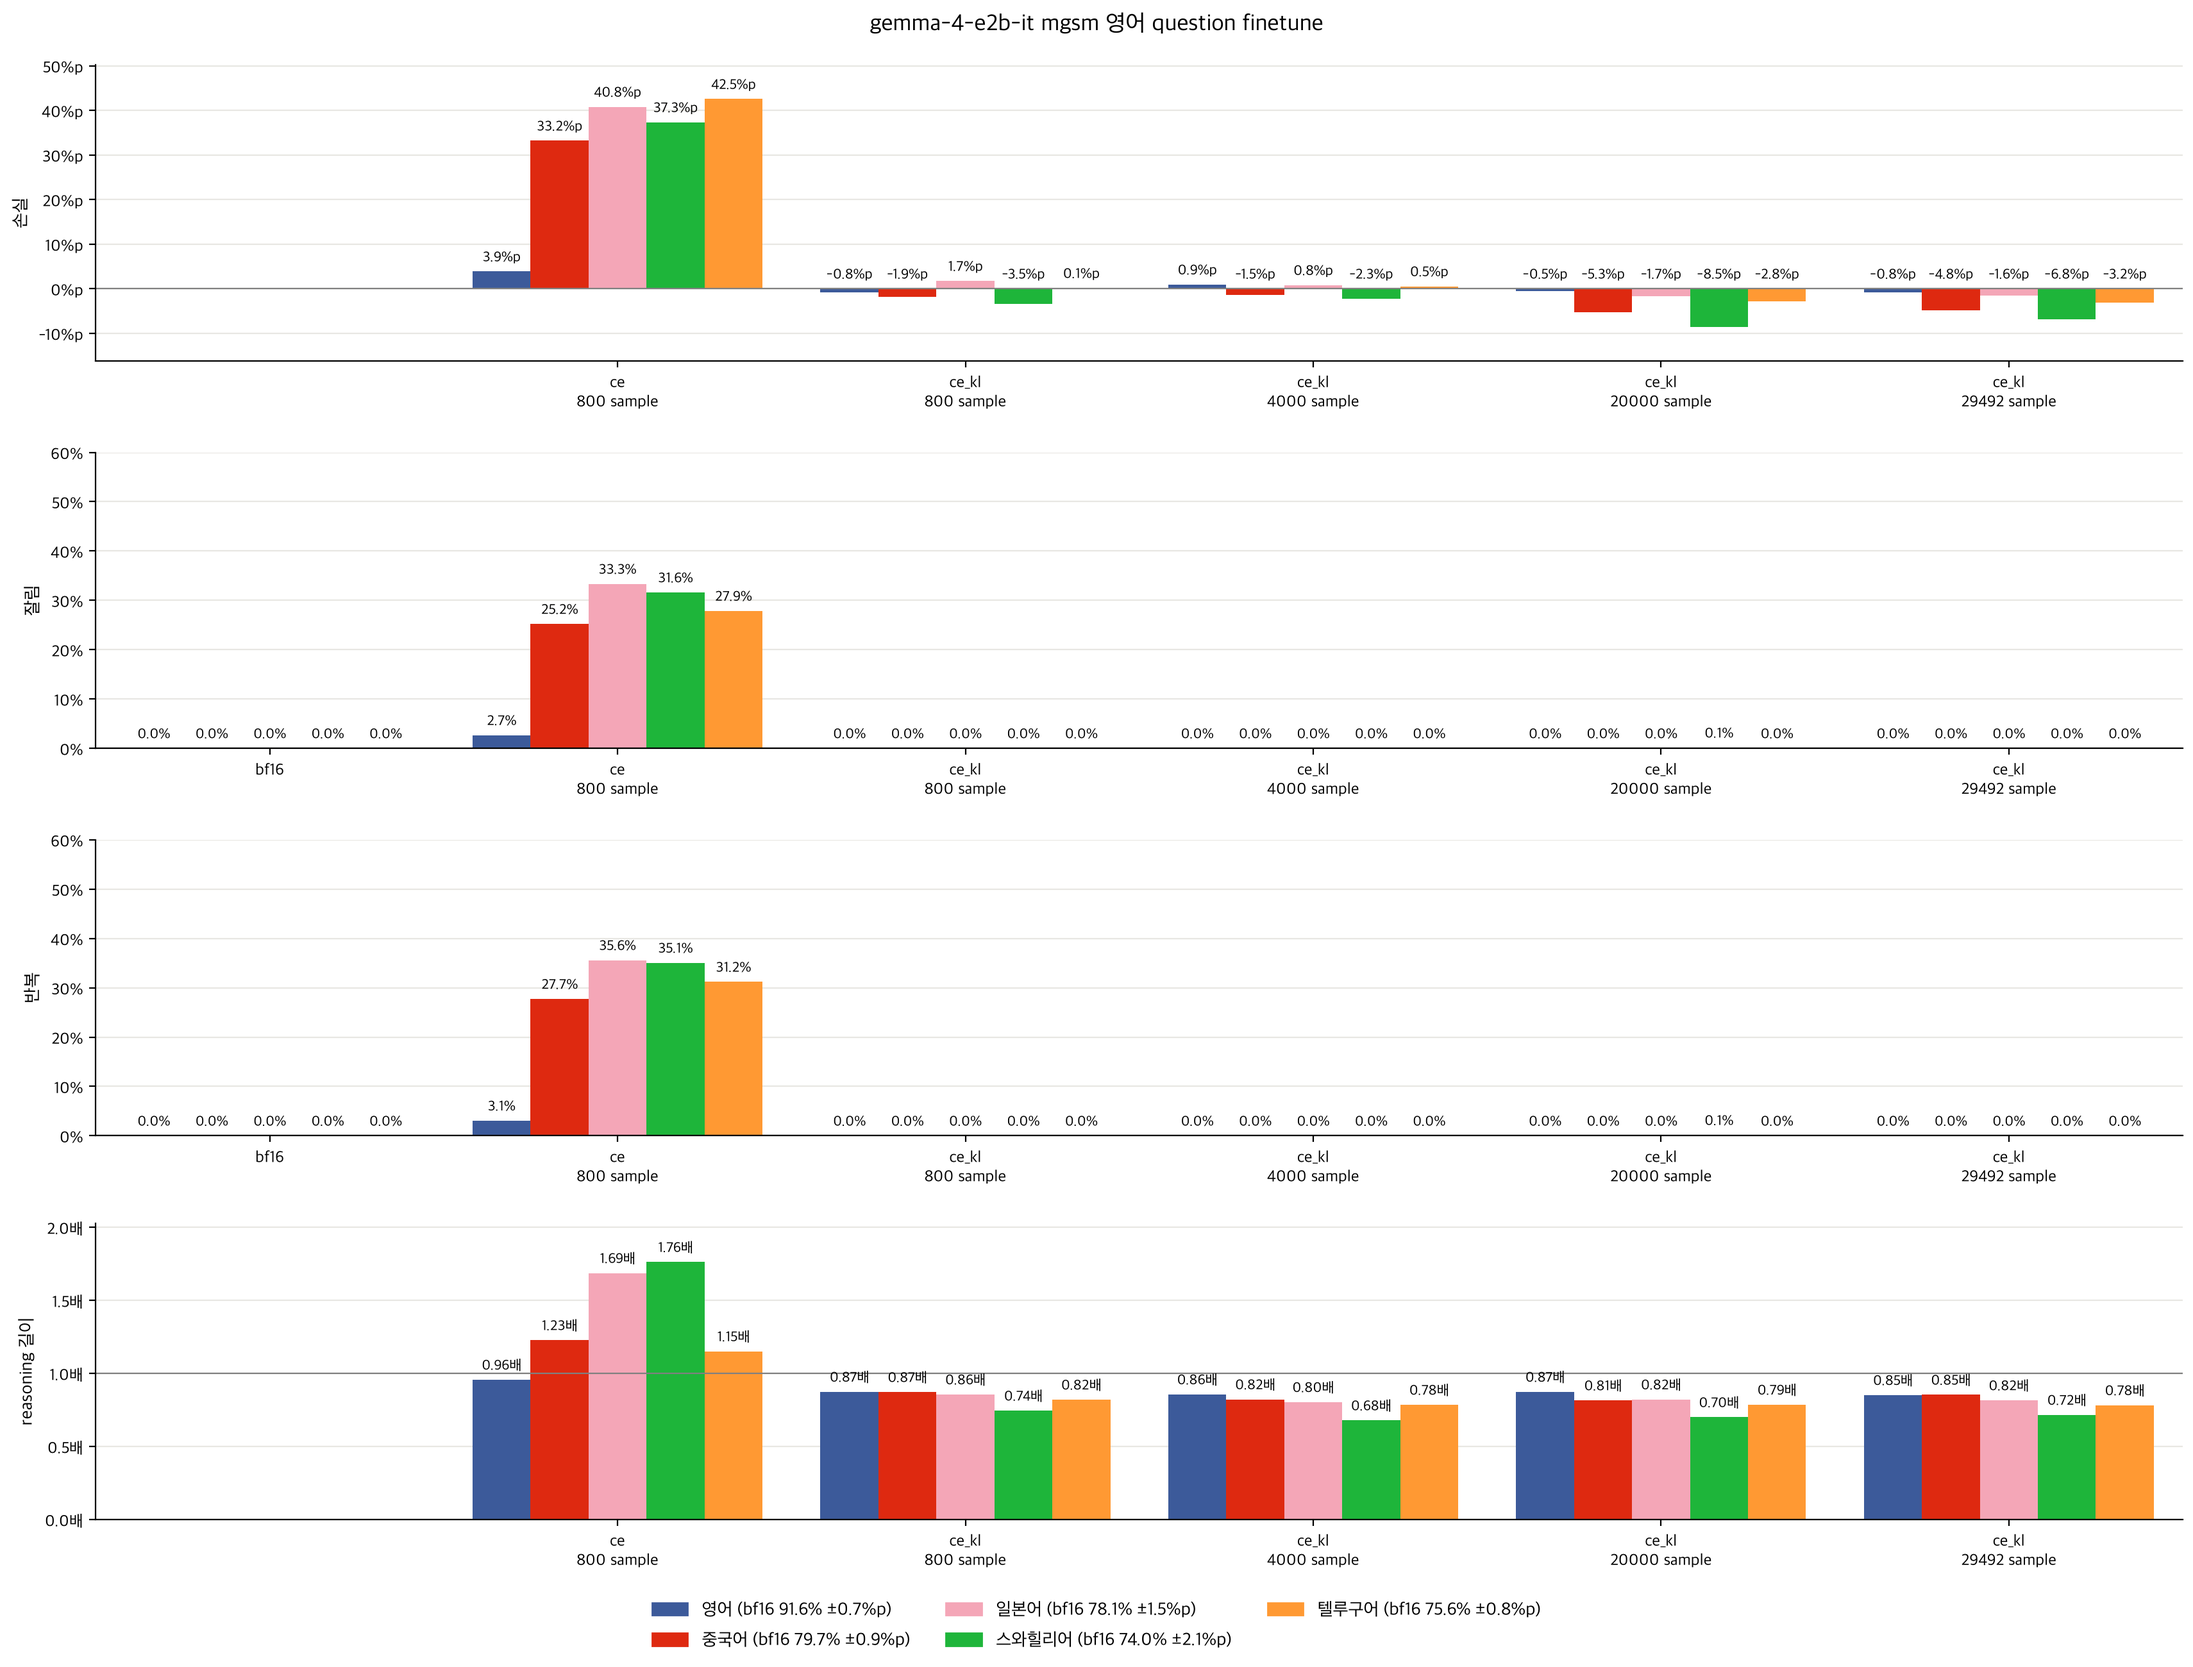
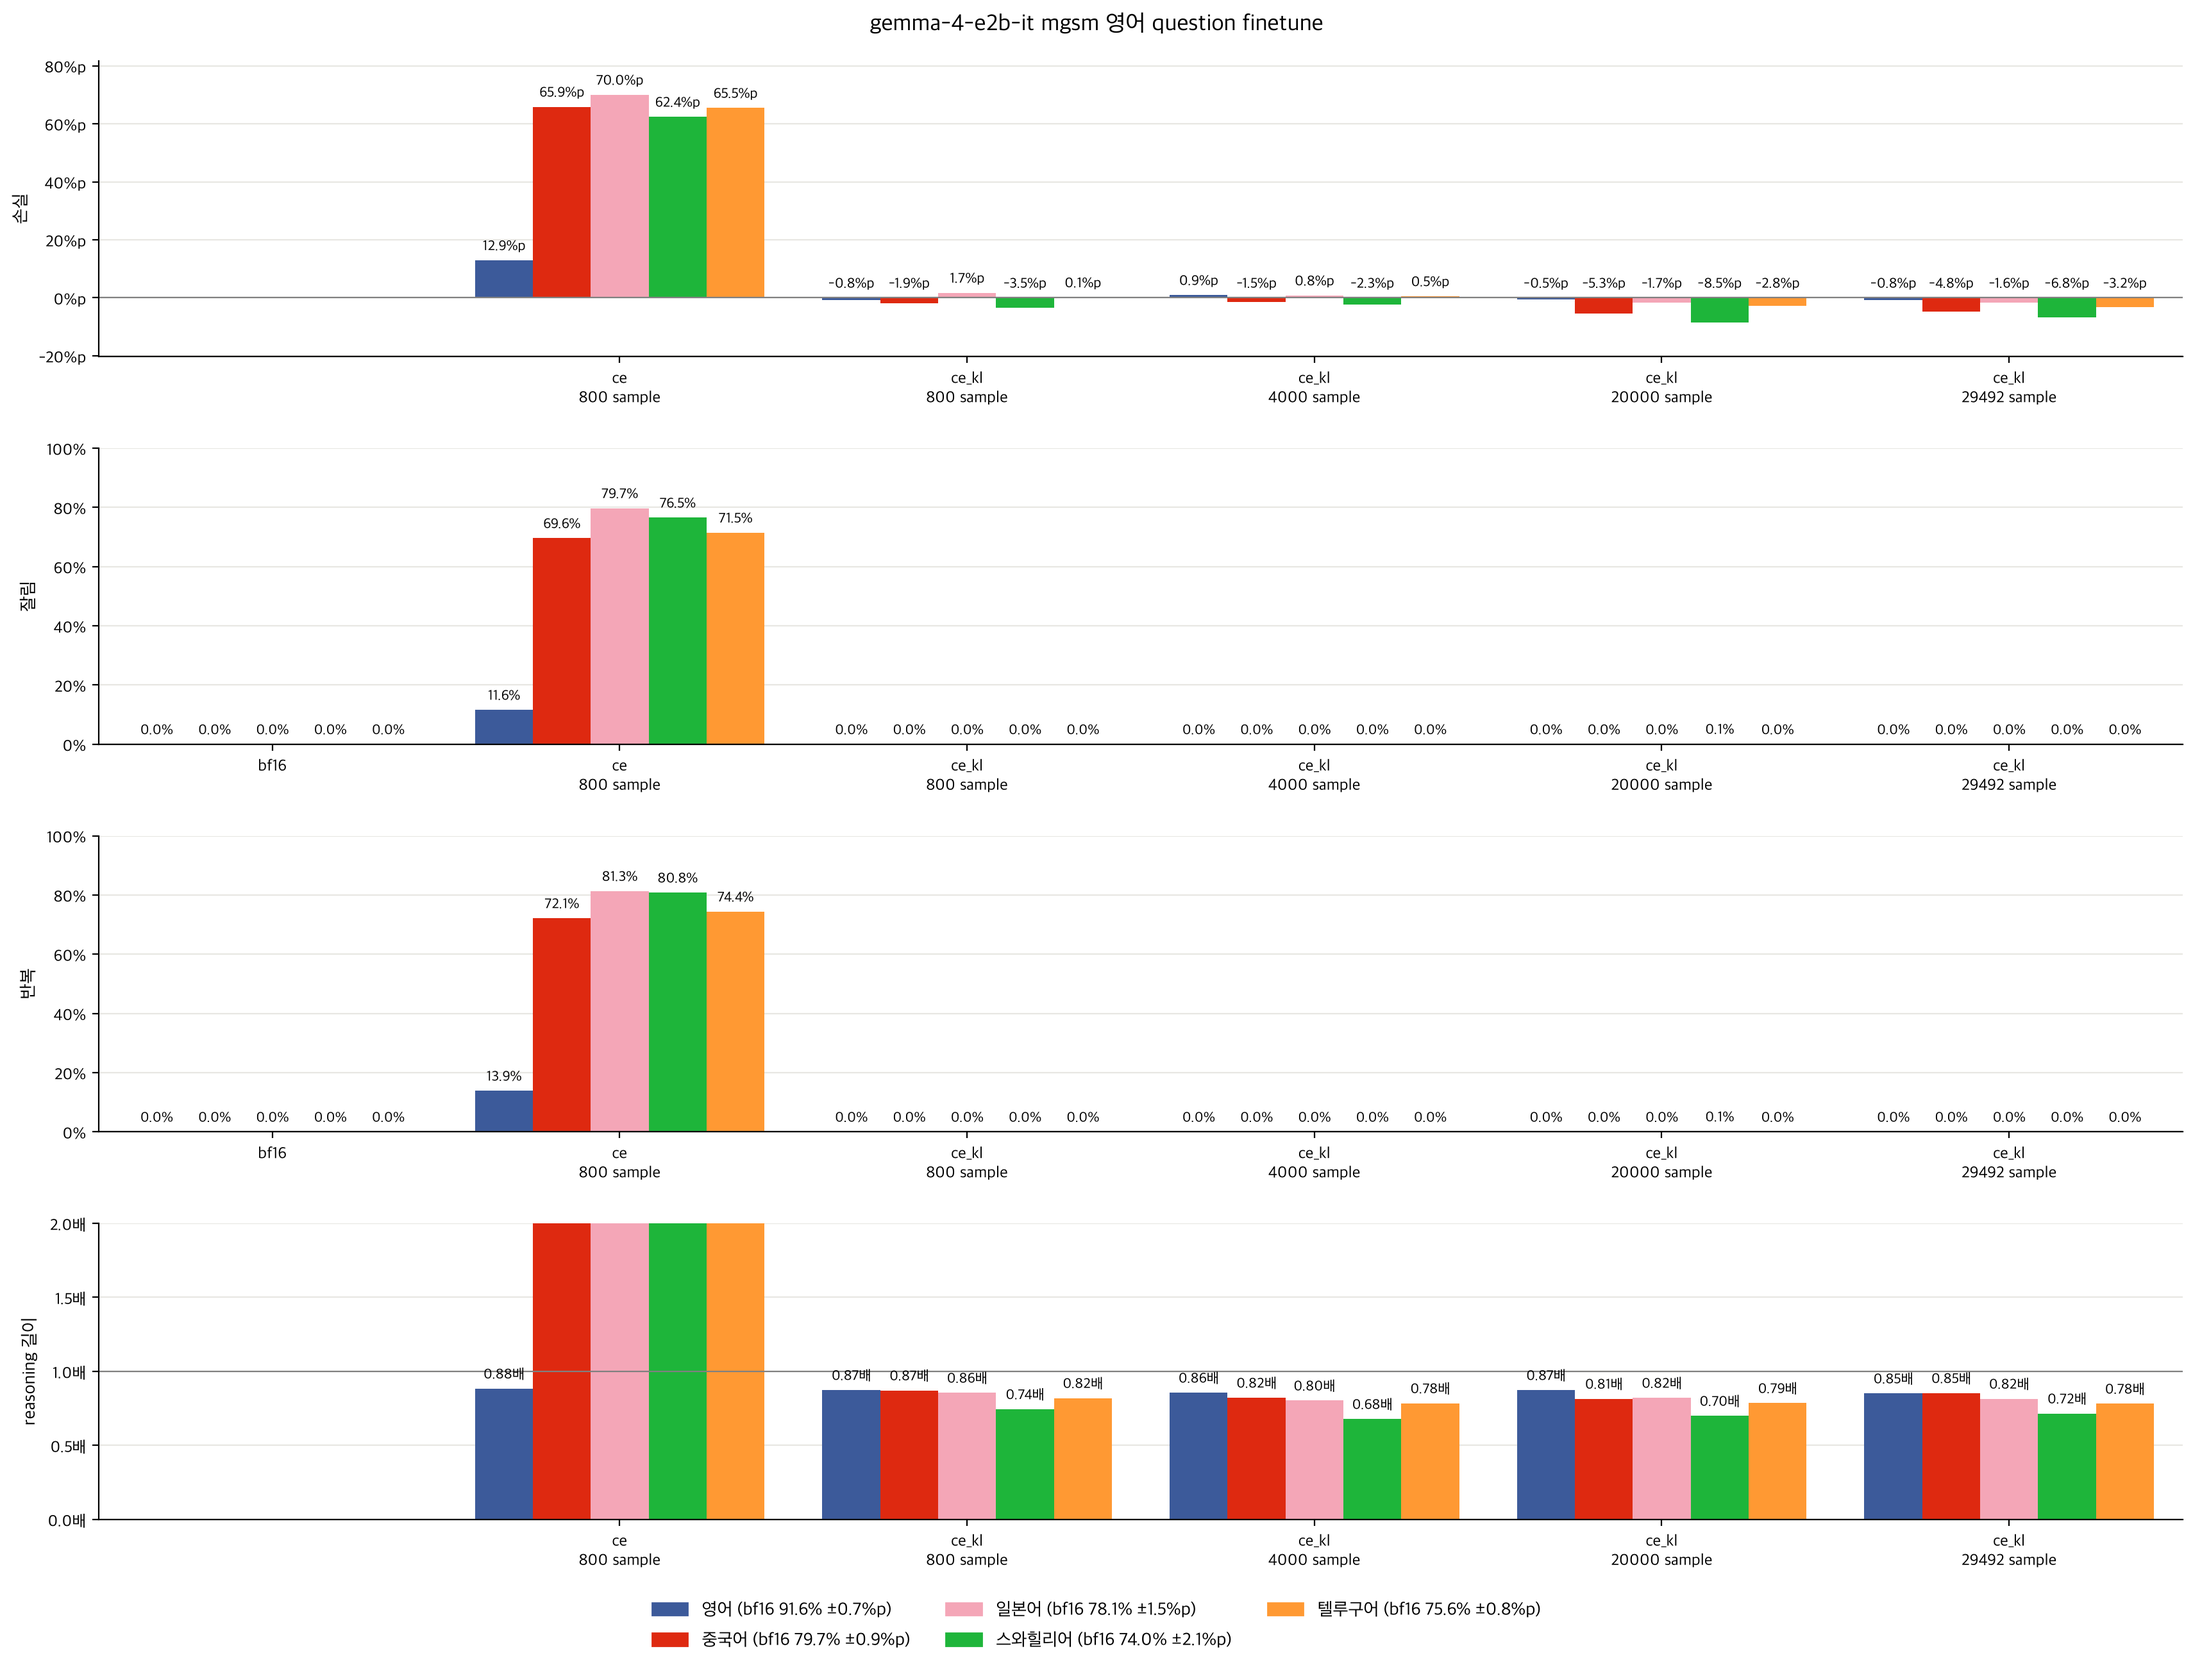
ce 학습 데이터 변경

diff --git a/methods/finetune.py b/methods/finetune.py
@@ -16,10 +16,10 @@ from torch.nn.utils import parametrize
 from torch.optim import AdamW
 from transformers import AutoTokenizer, PreTrainedModel, PreTrainedTokenizerBase, get_cosine_schedule_with_warmup, set_seed
 
-from utils.dataset import LANGUAGES, MGSM_PROMPTS, get_mgsm_question, load_mcot, load_mgsm
+from utils.dataset import LANGUAGES
 from utils.format import format_duration, format_memory
 from utils.hub import load_tensors, save_model
-from utils.model import GENERATION_CONFIGS, get_logits, get_prompt_ids, get_reasoning_hiddens, get_reasoning_ids, load_model
+from utils.model import GENERATION_CONFIGS, get_logits, get_reasoning_hiddens, get_reasoning_ids, load_model
 from utils.paths import make_hub_path, make_result_name, make_training_path
 from utils.quantization import quantize_mxfp4
 from utils.understanding import get_understanding
@@ -55,7 +55,7 @@ class Config:
     # bf16_native: bf16이 해당 언어 prompt에 쓴 reasoning, kl은 같은 prompt와 reasoning을 받은 bf16에 맞춤
     reasoning_source: Literal["bf16_en", "on_policy", "bf16_en_question_insert", "bf16_native"] = "bf16_en"
     # reasoning_source 중 finetune할 부분
-    # en_question: 영어 question, ce는 reasoning_source를 쓰지 않고 ce_kl은 영어 question 뒤에 reasoning_source를 씀
+    # en_question: reasoning_source의 영어 question, ce_kl은 그 뒤 reasoning도 씀
     train_part: Literal["understanding", "reasoning", "en_question"] = "understanding"
     num_samples: int = 4000
     # checkpoint를 저장할 finetune한 sample 수, 마지막은 항상 저장
@@ -122,32 +122,12 @@ def load_samples(
 def load_en_question_samples(
     tokenizer: PreTrainedTokenizerBase,
     model_name: str,
-    num_samples: int,
-) -> list[Sample]:
-    # mcot에서 모든 언어 question이 있고 mgsm과 겹치지 않는 문제를 뽑아 언어마다 (해당 언어 prompt, 영어 prompt, 영어 question)
-    # finetune할 text가 영어 question이라 bf16 정답 여부로 거르지 않음
-    # 예시) 스와힐리어 prompt + "<|channel>thought\n" + 영어 question + "\n\n"
-    mgsm_en_questions = {" ".join(get_mgsm_question(prompt).split()) for prompt, _ in load_mgsm(["en"])["en"]}
-    problems = [language_questions for language_questions in load_mcot(LANGUAGES).values() if len(language_questions) == len(LANGUAGES) and " ".join(language_questions["en"].split()) not in mgsm_en_questions]
-    reasoning_header = GENERATION_CONFIGS[model_name]["reasoning_header"]
-    samples = []
-    for language_questions in random.sample(problems, num_samples // len(TRAIN_LANGUAGES)):
-        en_prompt_ids = get_prompt_ids(tokenizer, MGSM_PROMPTS["en"].format(question=language_questions["en"]))
-        text_ids = get_reasoning_ids(tokenizer, model_name, reasoning_header + language_questions["en"] + "\n\n")
-        for language in TRAIN_LANGUAGES:
-            samples.append((get_prompt_ids(tokenizer, MGSM_PROMPTS[language].format(question=language_questions[language])), en_prompt_ids, text_ids))
-    print(f"samples {len(samples)} from {len(problems)} problems")
-    return samples
-
-
-def load_en_question_reasoning_samples(
-    tokenizer: PreTrainedTokenizerBase,
-    model_name: str,
     seed: int,
     max_generation_len: int,
     num_samples: int,
 ) -> list[Sample]:
     # gsm8k 문제와 언어마다 (해당 언어 prompt, 영어 question, bf16이 영어 question 삽입 뒤에 쓴 reasoning)
+    # ce도 같은 sample을 뽑기 때문에 학습 데이터와 순서가 ce_kl과 같음
     # kl은 정답 여부와 상관없이 bf16 분포를 맞추기 때문에 정답 여부로 거르지 않고, reasoning_end를 붙여 MAX_REASONING_LEN보다 길면 제외
     # 예시) 스와힐리어 prompt + "<|channel>thought\n" + 영어 question + "\n\n" + reasoning + "<channel|>"
     tensors = load_tensors("en_question_insert_reasoning/gsm8k", make_hub_path("bf16", model_name), make_result_name(max_generation_len, seed))
@@ -398,18 +378,19 @@ def main() -> None:
     model.float()
     # finetune 중 모델이 바뀌기 때문에 kl, hidden, ce_kl에는 고정된 bf16 따로 사용
     bf16_model = None if config.loss == "ce" else load_model(config.model_name)
-    if config.loss == "ce_kl":
-        if config.train_part != "en_question" or config.reasoning_source != "bf16_en_question_insert":
-            raise ValueError("ce_kl needs train_part en_question and reasoning_source bf16_en_question_insert")
-        samples = load_en_question_reasoning_samples(tokenizer, config.model_name, config.seed, config.max_generation_len, config.num_samples)
+    if config.train_part == "en_question":
+        if config.loss not in ("ce", "ce_kl") or config.reasoning_source != "bf16_en_question_insert":
+            raise ValueError("en_question needs loss ce or ce_kl and reasoning_source bf16_en_question_insert")
+        samples = load_en_question_samples(tokenizer, config.model_name, config.seed, config.max_generation_len, config.num_samples)
+        # ce는 영어 question만 finetune해 reasoning을 빼고 (해당 언어 prompt, 같은 prompt, 영어 question)으로 바꿈
+        if config.loss == "ce":
+            samples = [(prompt_ids, prompt_ids, question_ids) for prompt_ids, question_ids, _ in samples]
+    elif config.loss == "ce_kl":
+        raise ValueError("ce_kl needs train_part en_question")
     elif config.reasoning_source == "bf16_native":
         if config.loss != "kl" or config.train_part != "reasoning":
             raise ValueError("bf16_native needs loss kl and train_part reasoning")
         samples = load_native_reasoning_samples(tokenizer, config.model_name, config.seed, config.max_generation_len, config.num_samples)
-    elif config.train_part == "en_question":
-        if config.loss != "ce":
-            raise ValueError("en_question supports only ce and ce_kl")
-        samples = load_en_question_samples(tokenizer, config.model_name, config.num_samples)
     else:
         samples = load_samples(tokenizer, config.model_name, config.seed, config.max_generation_len, config.train_part)[: config.num_samples]
 

diff --git a/plots/en_question_finetune.py b/plots/en_question_finetune.py
@@ -9,14 +9,16 @@ from utils.metrics import get_loop_ratio, get_truncated_ratio
 from utils.paths import make_hub_path, make_training_path
 from utils.plot import VALUE_MARGIN, CASE_WIDTH, RATIO_YMAX, add_language_legend, get_figsize, get_losses, get_mean_values, get_title, plot_language_bars, save_figure
 
-# x축 이름과 (loss, reasoning_source, 학습 데이터 수, finetune한 sample 수)
+# x축 이름과 (loss, 학습 데이터 수, finetune한 sample 수)
 CASES = {
-    "ce\n800 sample": ("ce", "", 50000, 800),
-    "ce_kl\n800 sample": ("ce_kl", "bf16_en_question_insert", 20000, 800),
-    "ce_kl\n4000 sample": ("ce_kl", "bf16_en_question_insert", 20000, 4000),
-    "ce_kl\n20000 sample": ("ce_kl", "bf16_en_question_insert", 20000, 20000),
-    "ce_kl\n29492 sample": ("ce_kl", "bf16_en_question_insert", 29492, 29492),
+    "ce\n800 sample": ("ce", 20000, 800),
+    "ce_kl\n800 sample": ("ce_kl", 20000, 800),
+    "ce_kl\n4000 sample": ("ce_kl", 20000, 4000),
+    "ce_kl\n20000 sample": ("ce_kl", 20000, 20000),
+    "ce_kl\n29492 sample": ("ce_kl", 29492, 29492),
 }
+# ce는 대부분 잘려 중앙값이 최대 길이라, ce_kl 막대가 보이도록 y축 상한 고정
+LEN_RATIO_YMAX = 2.0
 
 
 @dataclass
@@ -36,8 +38,8 @@ def get_median_reasoning_len(
 def main() -> None:
     config = parse(Config)
     results = {"bf16": load_results("mgsm", make_hub_path("bf16", config.model_name), config.max_generation_len, config.seeds)}
-    for case, (loss, reasoning_source, num_samples, num_trained_samples) in CASES.items():
-        hub_path = make_training_path("finetune", config.model_name, loss, reasoning_source, "en_question", num_samples, num_trained_samples)
+    for case, (loss, num_samples, num_trained_samples) in CASES.items():
+        hub_path = make_training_path("finetune", config.model_name, loss, "bf16_en_question_insert", "en_question", num_samples, num_trained_samples)
         results[case] = load_results("mgsm", hub_path, config.max_generation_len, config.seeds)
 
     # 잘림과 반복은 bf16도 함께 표시
@@ -54,9 +56,10 @@ def main() -> None:
     # 손실과 reasoning 길이에는 bf16 case가 없어서, 잘림, 반복과 위치를 맞추려고 bf16 자리를 비워 둠
     for ax in [axes[0], axes[3]]:
         ax.set_xlim(-1.5 * CASE_WIDTH, (len(CASES) - 0.5) * CASE_WIDTH)
-        ax.margins(y=VALUE_MARGIN)
+    axes[0].margins(y=VALUE_MARGIN)
     for ax in axes[1:3]:
         ax.set_ylim(0, RATIO_YMAX)
+    axes[3].set_ylim(0, LEN_RATIO_YMAX)
 
     fig.suptitle(get_title(config.model_name, "mgsm", "영어 question finetune"))
     add_language_legend(fig, results["bf16"])

diff --git a/utils/paths.py b/utils/paths.py
@@ -39,14 +39,10 @@ def make_training_path(
     num_samples: int | None = None,
     num_trained_samples: int | None = None,
 ) -> str:
-    # en_question의 ce는 mcot 영어 question만 finetune해 reasoning_source 없음
     # checkpoint를 저장한 finetune은 학습 데이터 수와 지금까지 finetune한 sample 수 추가
     # 예시) "finetune/google/gemma-4-E2B-it/loss=kl,reasoning_source=on_policy,train_part=understanding"
-    # 예시) "finetune/google/gemma-4-E2B-it/loss=ce,train_part=en_question,num_samples=50000,num_trained_samples=800"
-    settings = [f"loss={loss}"]
-    if not (train_part == "en_question" and loss == "ce"):
-        settings.append(f"reasoning_source={reasoning_source}")
-    settings.append(f"train_part={train_part}")
+    # 예시) "finetune/google/gemma-4-E2B-it/loss=ce,reasoning_source=bf16_en_question_insert,train_part=en_question,num_samples=20000,num_trained_samples=800"
+    settings = [f"loss={loss}", f"reasoning_source={reasoning_source}", f"train_part={train_part}"]
     if num_samples is not None:
         settings += [f"num_samples={num_samples}", f"num_trained_samples={num_trained_samples}"]
     return f"{method}/{model_name}/{','.join(settings)}"
